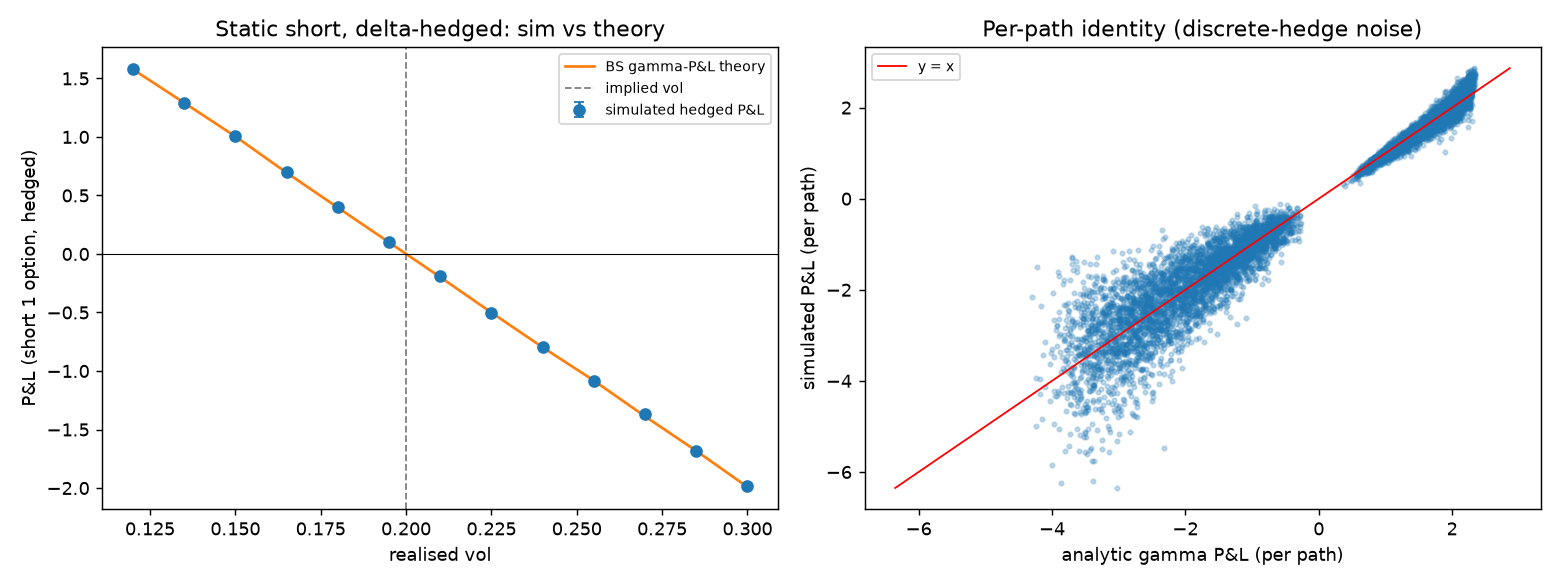
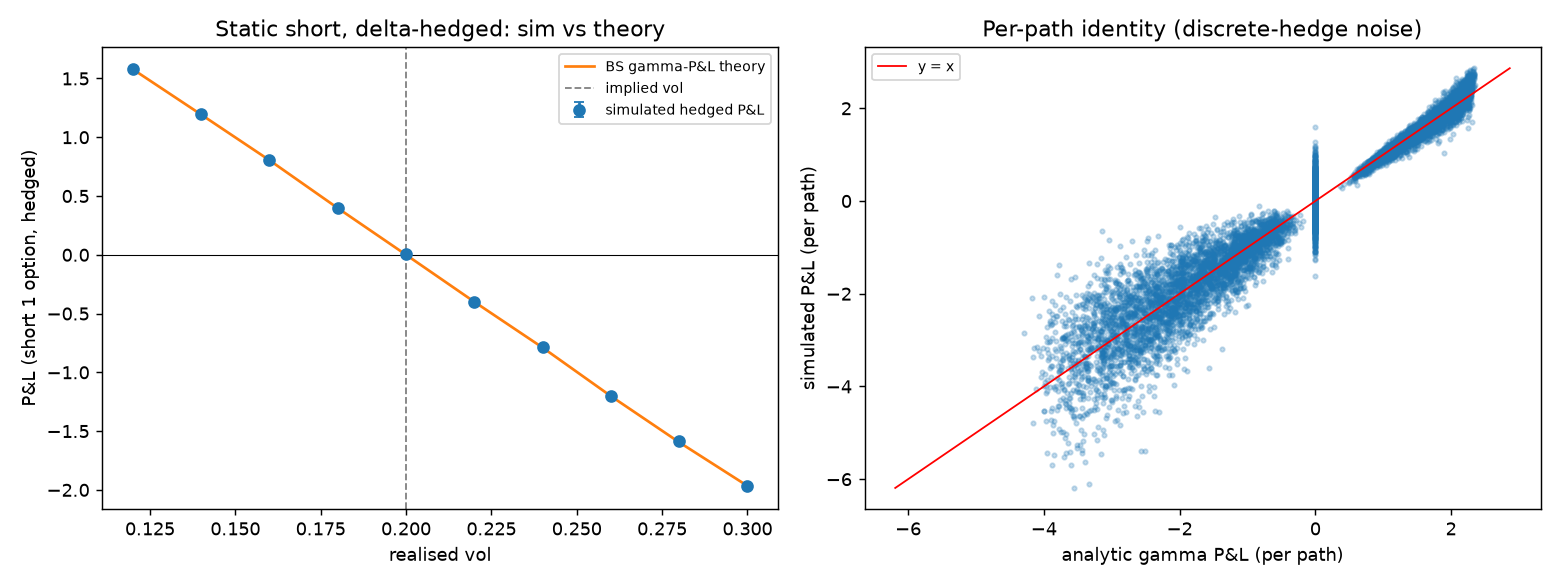
MM sim: put-aware informed flow, financing at r/q, sample at-implied vol
Three fixes to the market-making simulator:

* Informed flow always bought before up-moves, which is backwards for
  puts (toxic flow would have helped a put desk). It now trades in the
  direction the coming move rewards for the quoted option type.
* Financing is modelled instead of caveated: cash accrues at r, the
  hedge book earns the continuous dividend yield q, and the analytic
  gamma-P&L accrual carries the e^{r(T-t)} factor, so the hedging
  identity holds for r, q != 0. At r=0 the experiments are unchanged.
* The Experiment B vol grid never contained sigma_impl (0.20), so the
  at-implied sample the code meant to collect never triggered. The grid
  now steps by 0.02 and the P&L visibly crosses zero at implied vol.

Figures regenerated; README updated to match (spread-capture flatness
is now labelled as by construction).

diff --git a/market_making/mm_sim.py b/market_making/mm_sim.py
@@ -27,13 +27,15 @@ Design notes
 * Order arrival uses an Avellaneda-Stoikov style intensity, lambda = A*exp(-k*d)
   where d is the quote's distance from fair. Inventory is controlled by skewing
   the reservation price, which asymmetrically changes the two fill intensities.
-* r is defaulted to 0 in the experiments to isolate the vol P&L from financing
-  and discounting; it is a supported parameter throughout.
+* Financing is modelled: cash accrues at r, the hedge book earns the continuous
+  dividend yield q, and the analytic gamma-P&L carries the e^{r(T-t)}
+  financing factor, so the hedging identity holds for r, q != 0 (tested). The
+  experiments default to r=0 only to keep the vol P&L uncluttered.
 """
 
 from __future__ import annotations
 
-from dataclasses import dataclass, field, replace
+from dataclasses import dataclass, replace
 
 import numpy as np
 from scipy.stats import norm
@@ -203,11 +205,13 @@ def simulate_paths(
             # Uninformed flow: direction independent of the coming move.
             u_bid = rng.random(n_sims) < (1.0 - tox) * prob_bid
             u_ask = rng.random(n_sims) < (1.0 - tox) * prob_ask
-            # Informed flow: buys (lifts our ask) when the underlying is about to
-            # rise, sells (hits our bid) when it is about to fall.
+            # Informed flow: buys the option (lifts our ask) when the coming
+            # move raises its value, sells (hits our bid) when it lowers it.
+            # A call gains on an up-move; a put gains on a down-move.
             up = z > 0.0
-            i_ask = up & (rng.random(n_sims) < tox * prob_ask)
-            i_bid = (~up) & (rng.random(n_sims) < tox * prob_bid)
+            opt_gains = up if p.otype == "call" else ~up
+            i_ask = opt_gains & (rng.random(n_sims) < tox * prob_ask)
+            i_bid = (~opt_gains) & (rng.random(n_sims) < tox * prob_bid)
 
             fill_bid = u_bid | i_bid    # we BUY 1 @ bid
             fill_ask = u_ask | i_ask    # we SELL 1 @ ask
@@ -232,9 +236,18 @@ def simulate_paths(
             cash -= dH * S + p.tc_underlying * np.abs(dH) * S
             H = H_target
 
-        # analytic gamma P&L accrued over [t, t+dt] on the carried inventory
+        # Financing over [t, t+dt]: the cash balance accrues at r (borrow and
+        # lend at the same rate) and the shares held through the step earn the
+        # continuous dividend yield. The lag-1 hedge below trades at t+dt, so
+        # its cash flow correctly starts accruing only from the next step.
+        cash = cash * np.exp(p.r * dt) + H * S * (np.exp(p.q * dt) - 1.0)
+
+        # analytic gamma P&L accrued over [t, t+dt] on the carried inventory,
+        # future-valued to expiry (the e^{r(T-t)} factor in the identity)
         gamma_opt = bs_gamma(S, p.K, tau, p.r, p.sigma_impl, p.q)
-        vol_theory += 0.5 * q_inv * gamma_opt * S**2 * (sigma_real**2 - p.sigma_impl**2) * dt * m
+        vol_theory += (0.5 * q_inv * gamma_opt * S**2
+                       * (sigma_real**2 - p.sigma_impl**2) * dt * m
+                       * np.exp(p.r * (tau - 0.5 * dt)))
 
         # evolve the underlying with the REALISED vol using the pre-drawn shock
         S = S * np.exp((p.r - p.q - 0.5 * sigma_real**2) * dt + sigma_real * sqrt_dt * z)
@@ -500,7 +513,9 @@ def main():
 
     params = MMParams(flow_imbalance=0.30)
     n_sims = 4000
-    sig_grid = np.round(np.linspace(0.12, 0.30, 13), 4)
+    # Step 0.02 so the grid contains sigma_impl = 0.20 exactly — the
+    # at-implied point is sampled for the scatter/sample paths below.
+    sig_grid = np.round(np.linspace(0.12, 0.30, 10), 4)
 
     print("Options market-making simulator")
     print(f"  underlying S0={params.S0}, K={params.K}, T={params.T}y, "

diff --git a/market_making/README.md b/market_making/README.md
@@ -45,8 +45,10 @@ it takes on in engine (2).
   "hedge at the vol you marked at"). All cash flows — option fills, hedge
   trades, expiry settlement — run through a single cash account, so terminal
   cash *is* the P&L.
-* `r` is defaulted to 0 in the experiments to isolate the vol P&L from
-  financing/discounting; it is a supported parameter throughout.
+* **Financing:** cash accrues at `r`, the hedge book earns the continuous
+  dividend yield `q`, and the gamma-P&L identity below carries its `e^{r(T-t)}`
+  financing factor, so `r` and `q` are supported (and tested) — the experiments
+  just default to `r = 0` to keep the vol P&L uncluttered.
 
 ## Is it correct? (Experiment A)
 
@@ -54,7 +56,7 @@ Hedging at implied vol, a short option held to expiry has a known closed-form
 P&L — the gamma-P&L identity:
 
 ```
-PnL  ≈  0.5 * integral[ Gamma_impl(t) * S(t)^2 * (sigma_impl^2 - sigma_real^2) ] dt
+PnL  ≈  0.5 * integral[ e^{r(T-t)} * Gamma_impl(t) * S(t)^2 * (sigma_impl^2 - sigma_real^2) ] dt
 ```
 
 Experiment A runs a static short option through the hedger and compares the
@@ -76,8 +78,9 @@ imbalance, delta-hedged — swept across realised vol:
 
 ![MM P&L vs vol](figures/mm_pnl_vs_vol.png)
 
-* **Spread capture (green)** is flat — the desk earns its edge on volume
-  regardless of where vol lands.
+* **Spread capture (green)** is flat — by construction: fill intensity depends
+  only on quote distance and inventory, not on where vol lands, so the desk
+  earns its edge on volume in every scenario.
 * **Vol / hedging P&L (red)** slopes down through zero at implied vol: the
   net-short book profits when the world is calm and bleeds gamma when it is
   wild.
